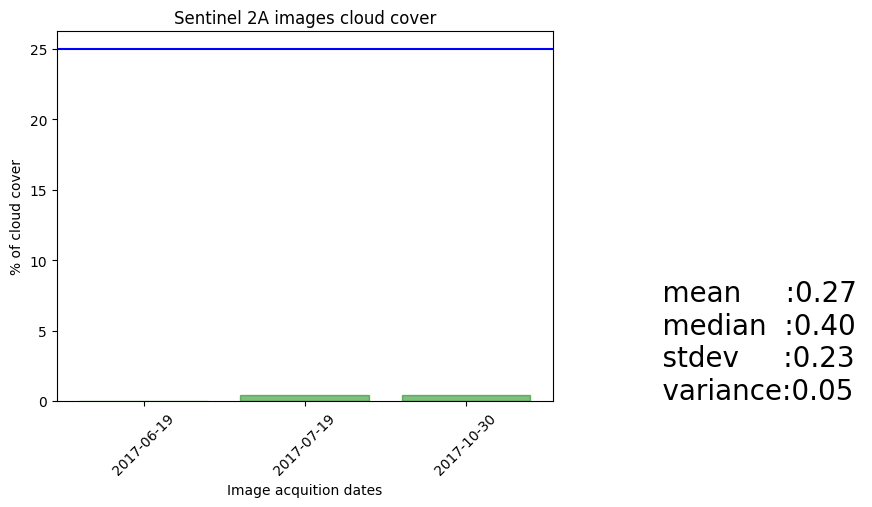
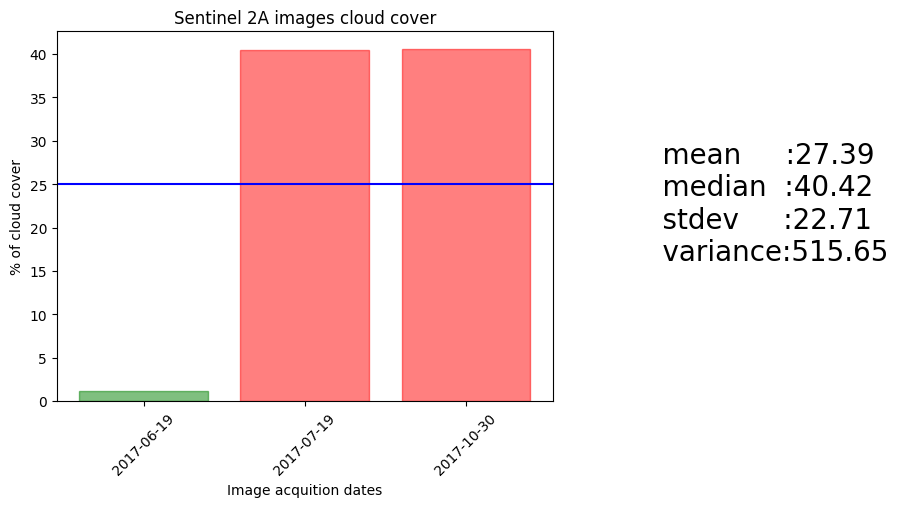
Cloud percent caluclation bug fixed

diff --git a/app/views_dev.py b/app/views_dev.py
@@ -25,6 +25,12 @@ from subprocess import Popen, PIPE, CalledProcessError
 from geojson import Polygon
 
 
+
+#TODO: update cloud percent calculation for half images. images having black patches.
+
+
+
+
 app = Flask(__name__)
 app.config['SECRET_KEY'] = 'top-secret!'
 
@@ -115,6 +121,9 @@ def long_task(self):
 
         img_size = img_info['size']
 
+        # used to calculate cloud percent
+        img_pixels = img_size[0] * img_size[1]
+
         # # creating projection
         img_srs = osr.SpatialReference()
         img_srs.ImportFromEPSG(4326)
@@ -153,9 +162,6 @@ def long_task(self):
 
         x = ds.RasterXSize
         y = ds.RasterYSize
-
-        # used to calculate cloud percent
-        img_pixels = x*y
 
         ds = None
 
@@ -214,9 +220,11 @@ def long_task(self):
             
             self.update_state(state='PROGRESS', meta={'type': 'raster', 'extent':grid_extent, 'name': img[:-6]+"_cloud"+str(j)+'.jpg', 'image_size': grid_size, 'image_dates': '' })
         
-        img_cloud_percent = cloud_pixels/img_pixels
+
+        img_cloud_percent = (cloud_pixels/img_pixels)*100
 
         cloud_percent.append(img_cloud_percent)
+
 
     time.sleep(2)
     
